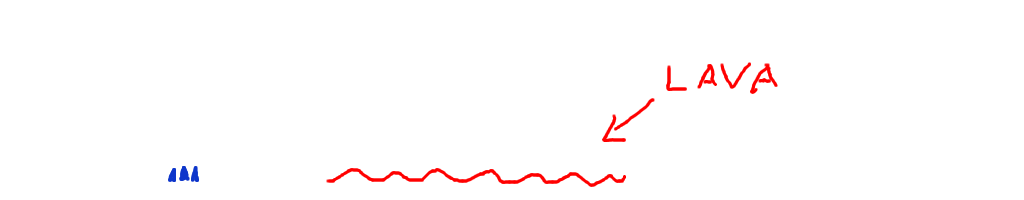
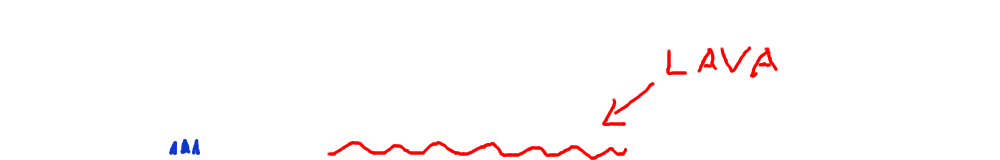
Changed dimensions of the game

diff --git a/gamecanvas.js b/gamecanvas.js
@@ -2,6 +2,11 @@
 // GLOBAL OBJECTS
 var runningLocallyOnFirefox = (location.href.substr(0,7) == "file://");
 
+var canvasWidth;
+var canvasHeight;
+// var canvasWidth = document.getElementById("canvas1").width;
+// var canvasHeight = document.getElementById("canvas1").height;
+
 // timer engine
 var gameControl = new( function() {
     this.fps = 60;
@@ -74,7 +79,7 @@ var player = new( function() {
     this.oldx = this.x;
     this.oldy = this.y;
     this.rejecting = false;
-    this.jumpStrength = 200;
+    this.jumpStrength = 160;
     this.horzSpeed = 100;
     this.gravityStrength = 500;
 })
@@ -109,14 +114,17 @@ function loadGame() {
     document.onkeydown = keys.keyPressed;
     document.onkeyup = keys.keyReleased;
     
+    canvasWidth = document.getElementById("canvas1").width;
+    canvasHeight = document.getElementById("canvas1").height;
+    
     assets.bgContext = assets.bgCanvas.getContext('2d');
     assets.bgCanvas.width = assets.bgImage.width;
     assets.bgCanvas.height = assets.bgImage.height;
     assets.bgContext.drawImage(assets.wallImage,0,0);
-    assets.wallData = myGetImageData( assets.bgContext, 0,0,1024,200 );
+    assets.wallData = myGetImageData( assets.bgContext, 0,0,canvasWidth,canvasHeight );
     assets.bgContext.clearRect(0,0,assets.bgCanvas.width, assets.bgCanvas.height);
     assets.bgContext.drawImage(assets.killImage,0,0);
-    assets.killData = myGetImageData( assets.bgContext, 0,0, 1024, 200 );
+    assets.killData = myGetImageData( assets.bgContext, 0,0, canvasWidth, canvasHeight );
     assets.bgContext.clearRect(0,0,assets.bgCanvas.width, assets.bgCanvas.height);
     assets.bgContext.drawImage(assets.bgImage,0,0);
     assets.bgContext.drawImage(assets.wallImage,0,0);
@@ -231,13 +239,13 @@ function draw(dt) {
         context.drawImage(assets.bgCanvas,0,0);
 	assets.bgVisible = true;
     }
-    if ((player.oldx>=0) && (player.oldx+player.width<=1024) && (player.oldy>=0) && (player.oldy+player.height<=200))
+    if ((player.oldx>=0) && (player.oldx+player.width<=canvasWidth) && (player.oldy>=0) && (player.oldy+player.height<=canvasHeight))
         context.drawImage(assets.bgCanvas, player.oldx, player.oldy, player.width, player.height, player.oldx, player.oldy, player.width, player.height); 
     
     player.oldx = Math.floor(player.x+player.speedRight*dts + 0.5);
     player.oldy = Math.floor(player.y-player.speedUp*dts + 0.5);
     
-    if ((player.oldx>=0) && (player.oldx+player.width<=1024) && (player.oldy>=0) && (player.oldy+player.height<=200)) {
+    if ((player.oldx>=0) && (player.oldx+player.width<=canvasWidth) && (player.oldy>=0) && (player.oldy+player.height<=canvasHeight)) {
 	context.fillStyle = "#FFFFFF";
 	context.fillRect(player.oldx, player.oldy, player.width, player.height);
     }
@@ -259,7 +267,7 @@ function myGetImageData(ctx, sx, sy, sw, sh) {
 }
 
 function checkImageData(sx,sy) {
-    if ((sx <= 0) || (sx >= 1024) || (sy <= 0) || (sy >= 200))
+    if ((sx <= 0) || (sx >= canvasWidth) || (sy <= 0) || (sy >= canvasHeight))
 	return true;
     return ( assets.wallData.data[ ( Math.floor(sy) * assets.bgImage.width + Math.floor(sx) ) * 4 + 3] > 0 );
 }
@@ -290,7 +298,7 @@ function playerCollidedHorizontal() {
 }
 
 function checkKillData(sx,sy) {
-    if ((sx <= 0) || (sx >= 1024) || (sy <= 0) || (sy >= 200))
+    if ((sx <= 0) || (sx >= canvasWidth) || (sy <= 0) || (sy >= canvasHeight))
 	return false;
     return ( assets.killData.data[ ( Math.floor(sy) * assets.bgImage.width + Math.floor(sx) ) * 4 + 3] > 0 );
 }

diff --git a/index.html b/index.html
@@ -4,6 +4,6 @@
 <body onload="startGame()">
 <canvas id="canvas1" style="image-rendering: 
 optimizespeed ! important;" moz-opaque=""
-width="1024" height="200"></canvas>
+width="1000" height="160"></canvas>
 </body>
 </html>
